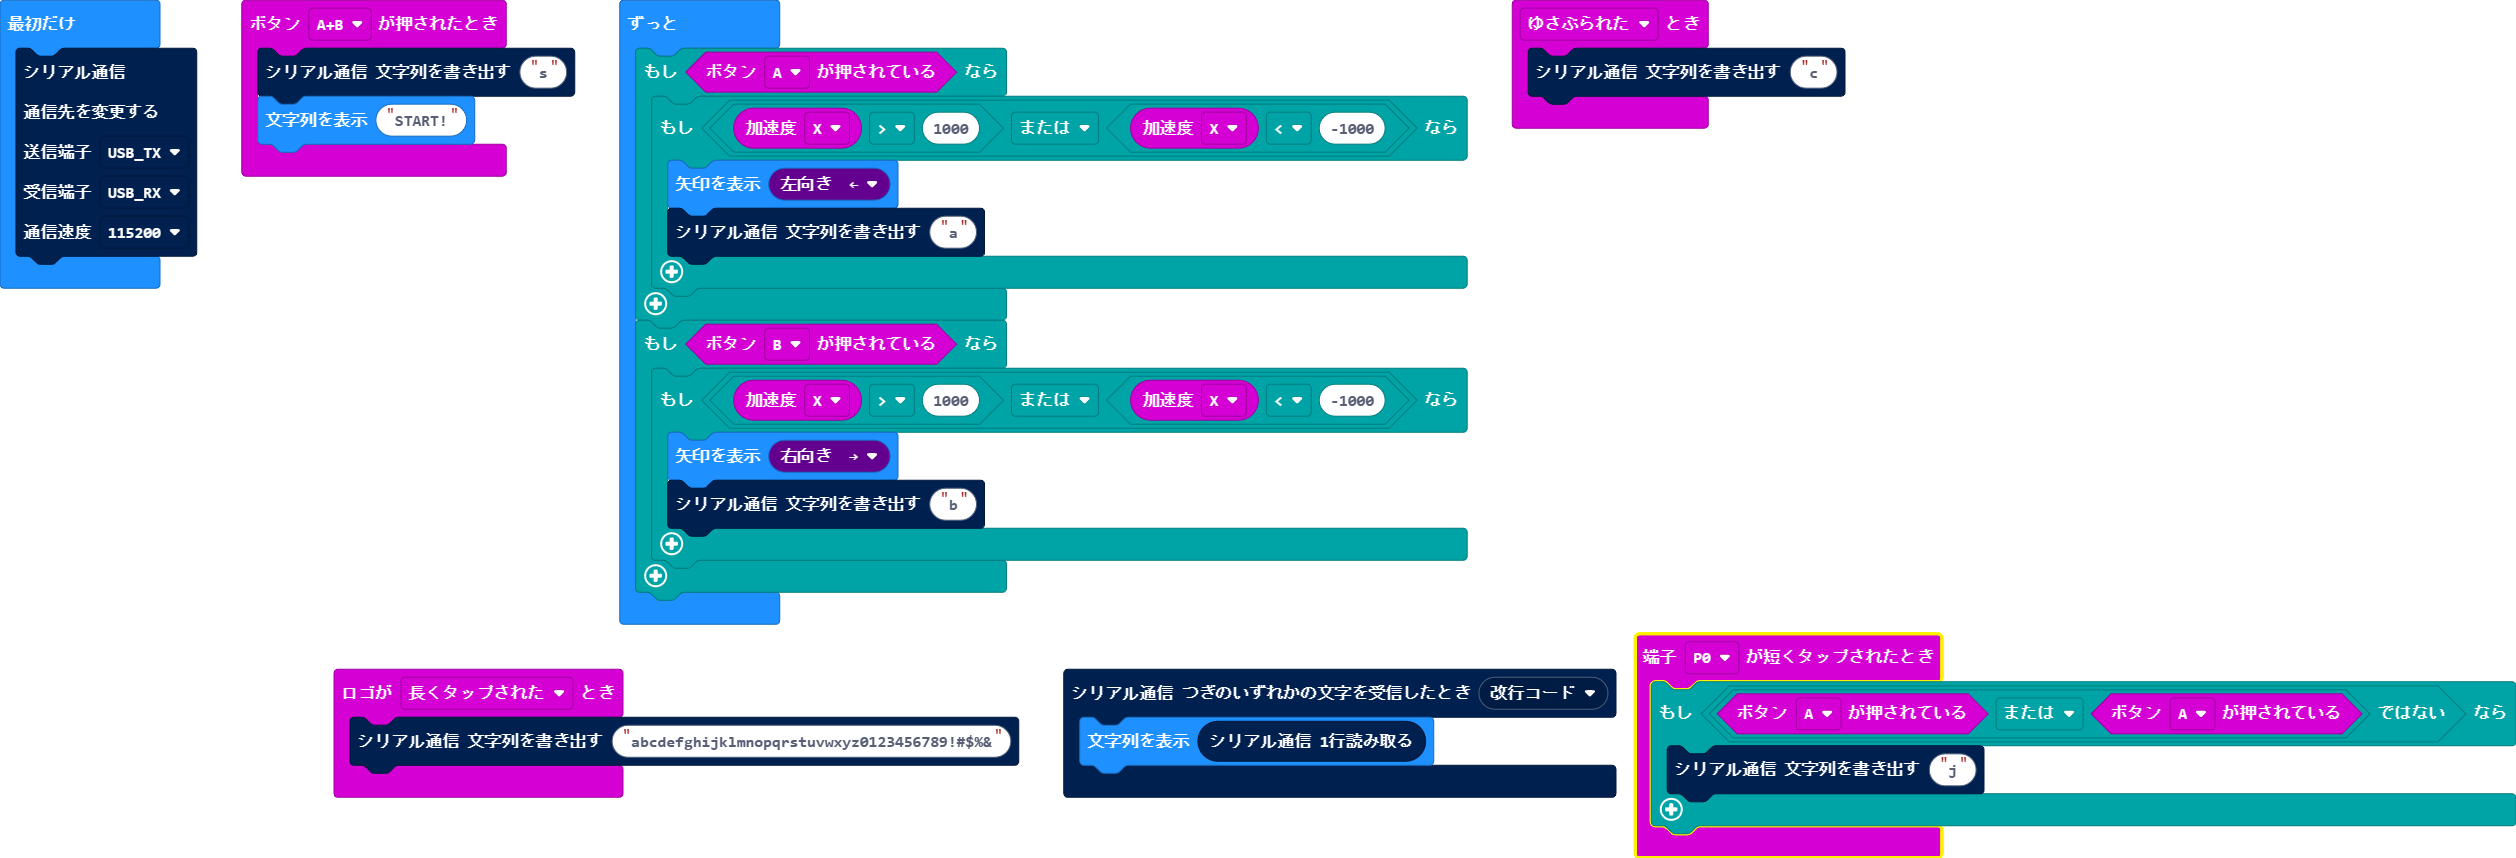
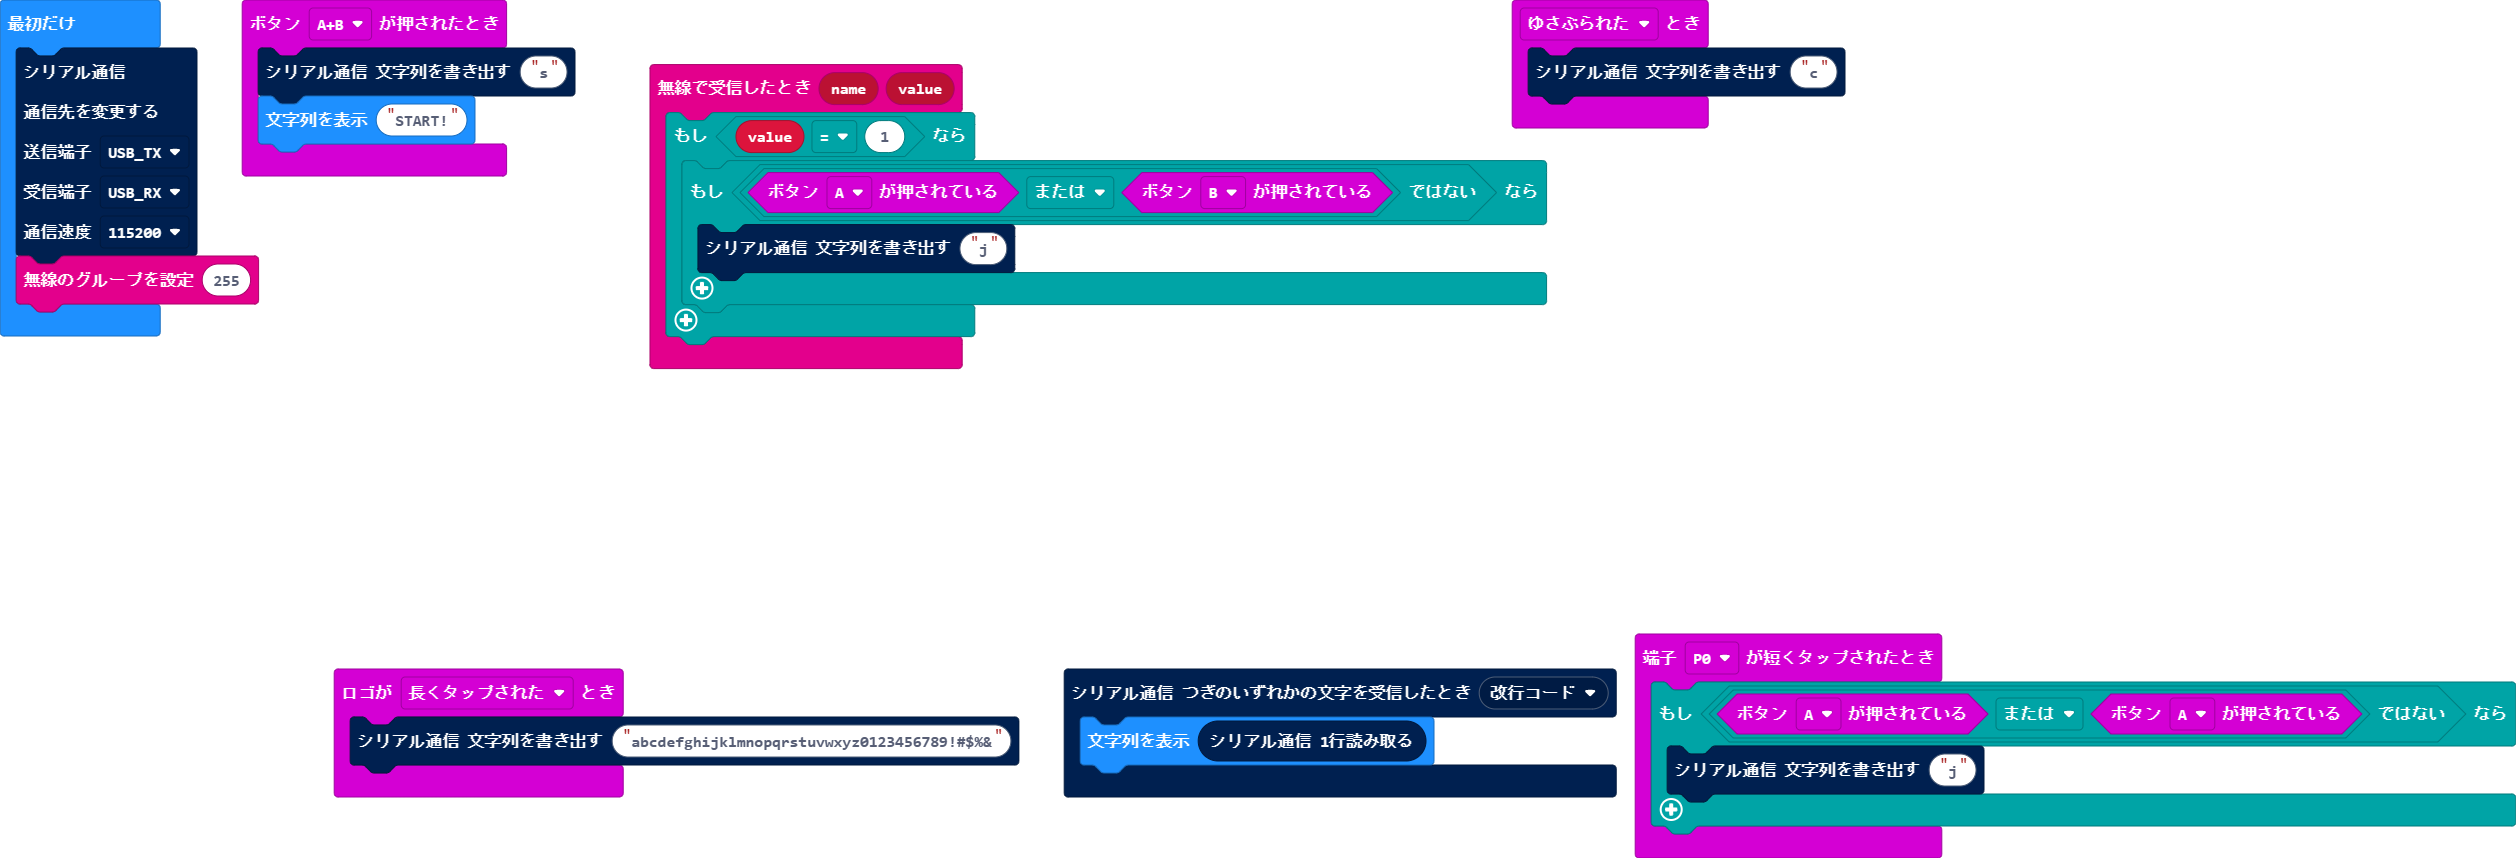
v2

diff --git a/main.ts b/main.ts
@@ -16,22 +16,16 @@ input.onButtonPressed(Button.AB, function () {
     serial.writeString("s")
     basic.showString("START!")
 })
+radio.onReceivedValue(function (name, value) {
+    if (value == 1) {
+        if (!(input.buttonIsPressed(Button.A) || input.buttonIsPressed(Button.B))) {
+            serial.writeString("j")
+        }
+    }
+})
 serial.redirect(
 SerialPin.USB_TX,
 SerialPin.USB_RX,
 BaudRate.BaudRate115200
 )
-basic.forever(function () {
-    if (input.buttonIsPressed(Button.A)) {
-        if (input.acceleration(Dimension.X) > 1000 || input.acceleration(Dimension.X) < -1000) {
-            basic.showArrow(ArrowNames.West)
-            serial.writeString("a")
-        }
-    }
-    if (input.buttonIsPressed(Button.B)) {
-        if (input.acceleration(Dimension.X) > 1000 || input.acceleration(Dimension.X) < -1000) {
-            basic.showArrow(ArrowNames.East)
-            serial.writeString("b")
-        }
-    }
-})
+radio.setGroup(255)
